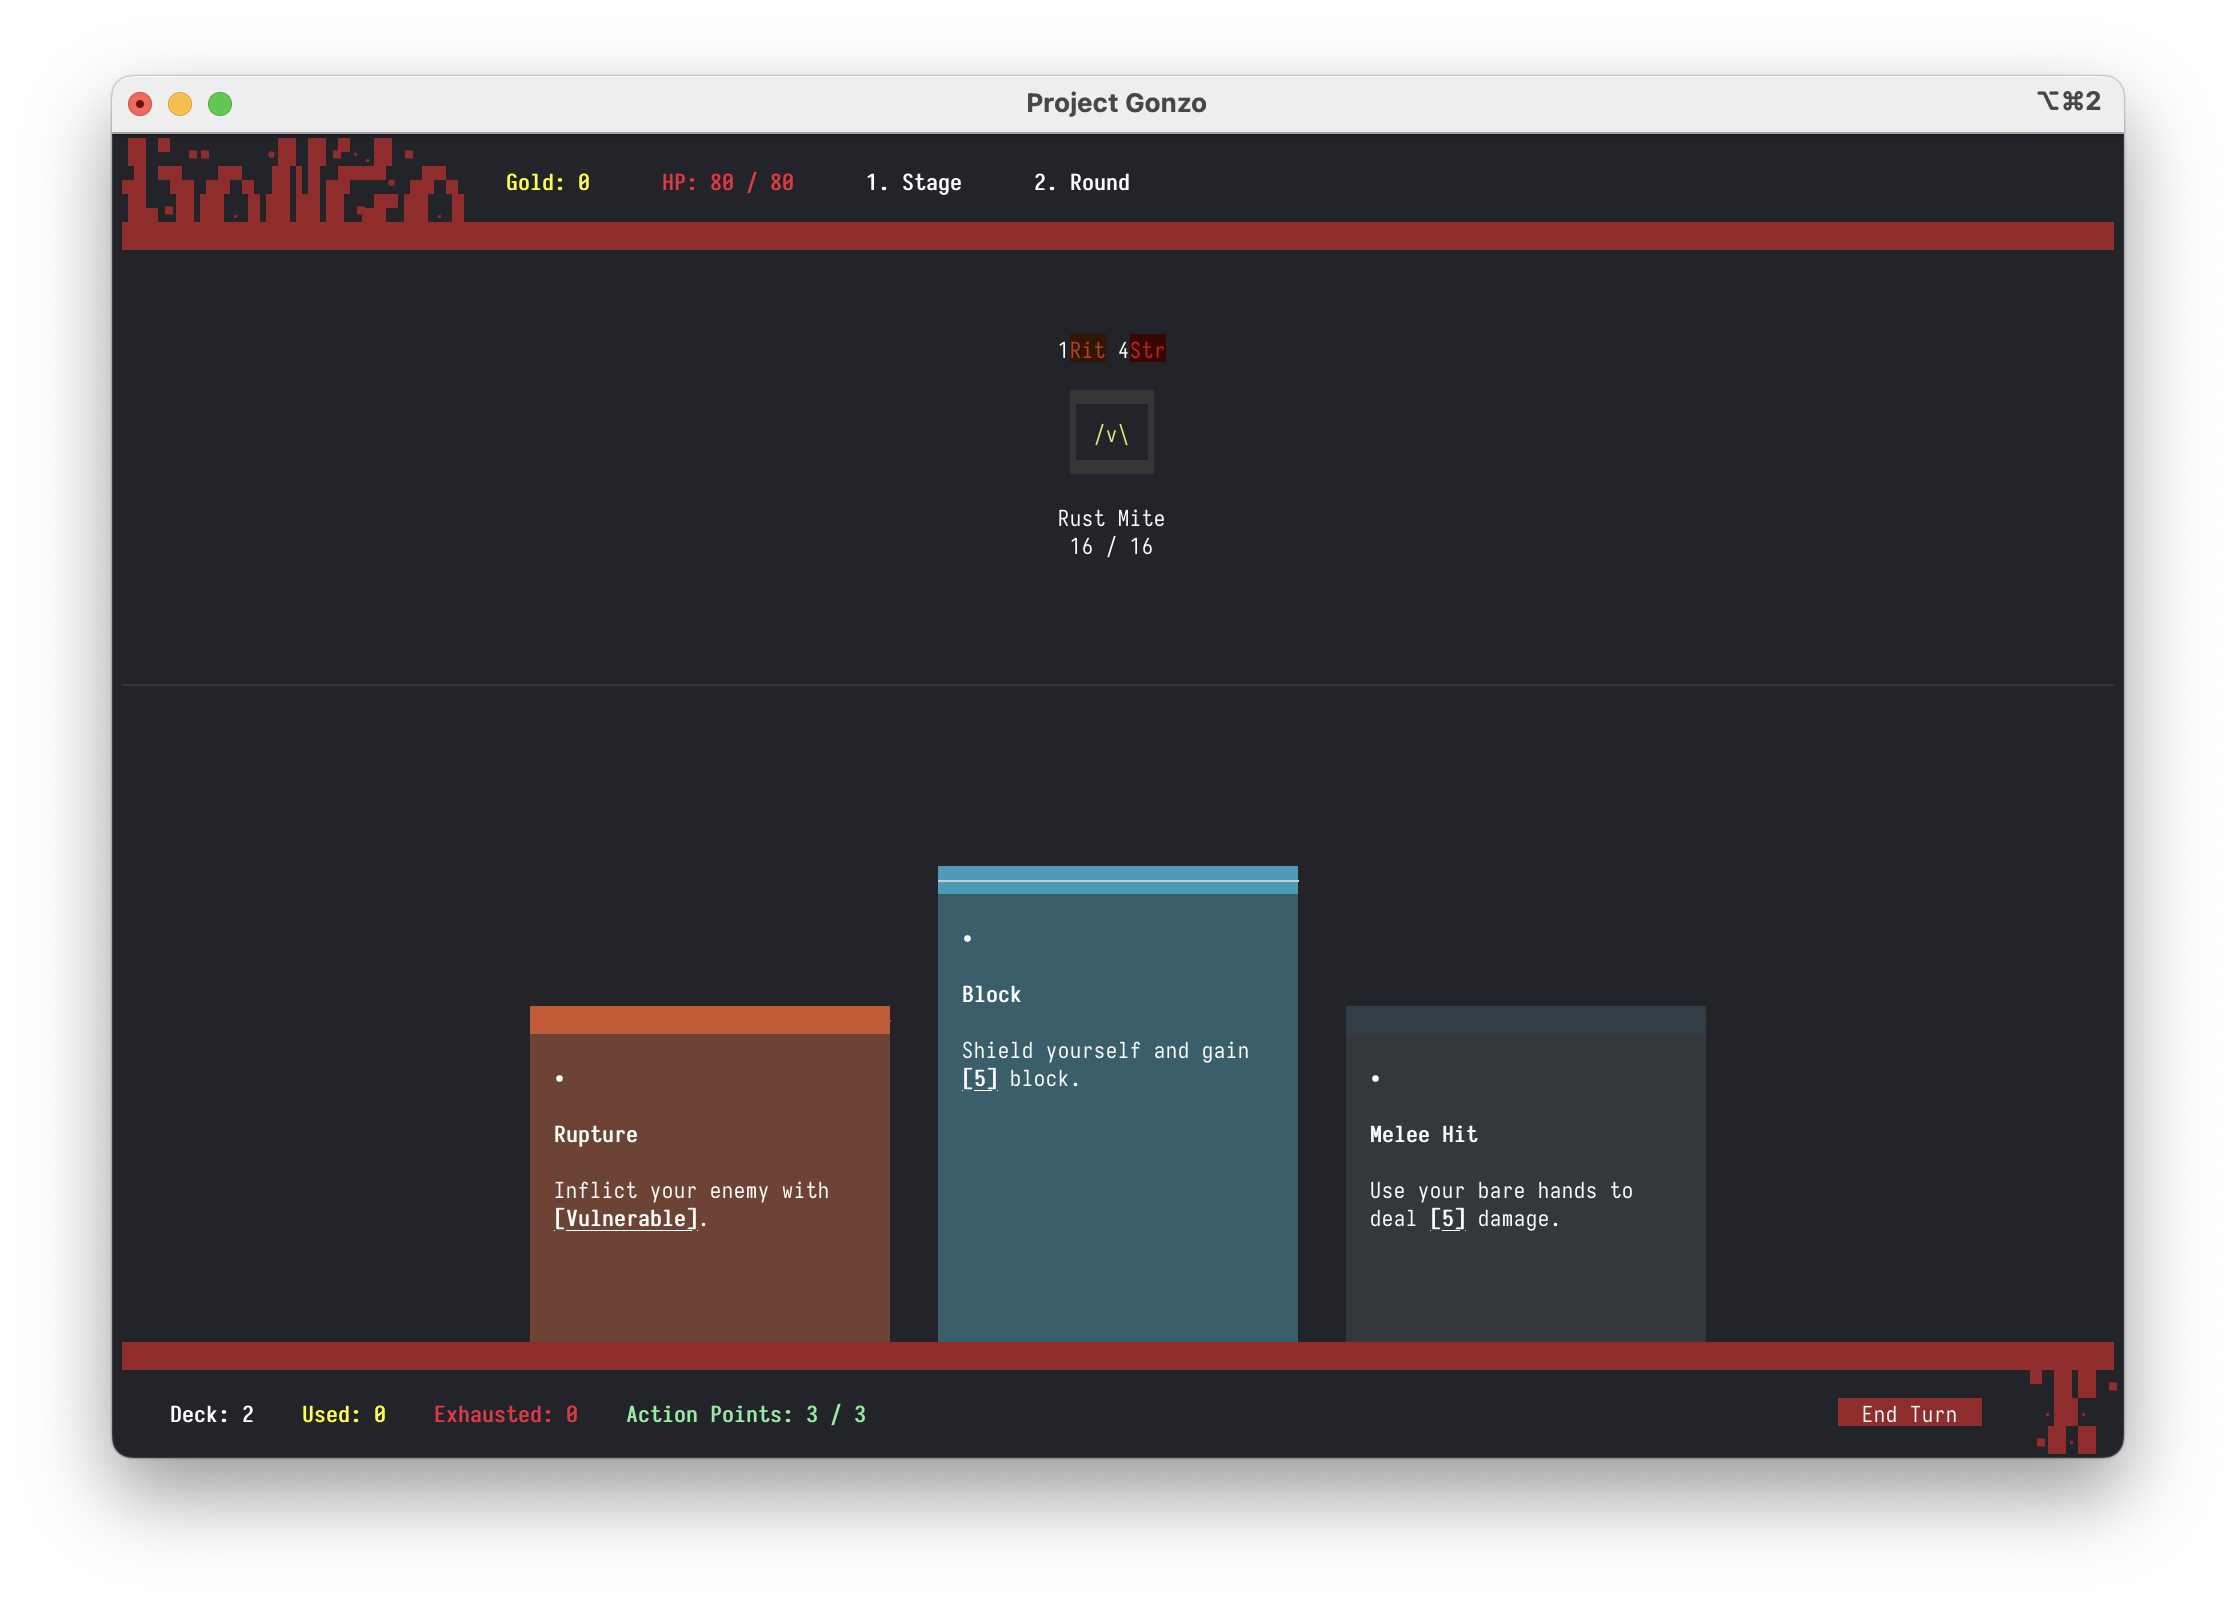
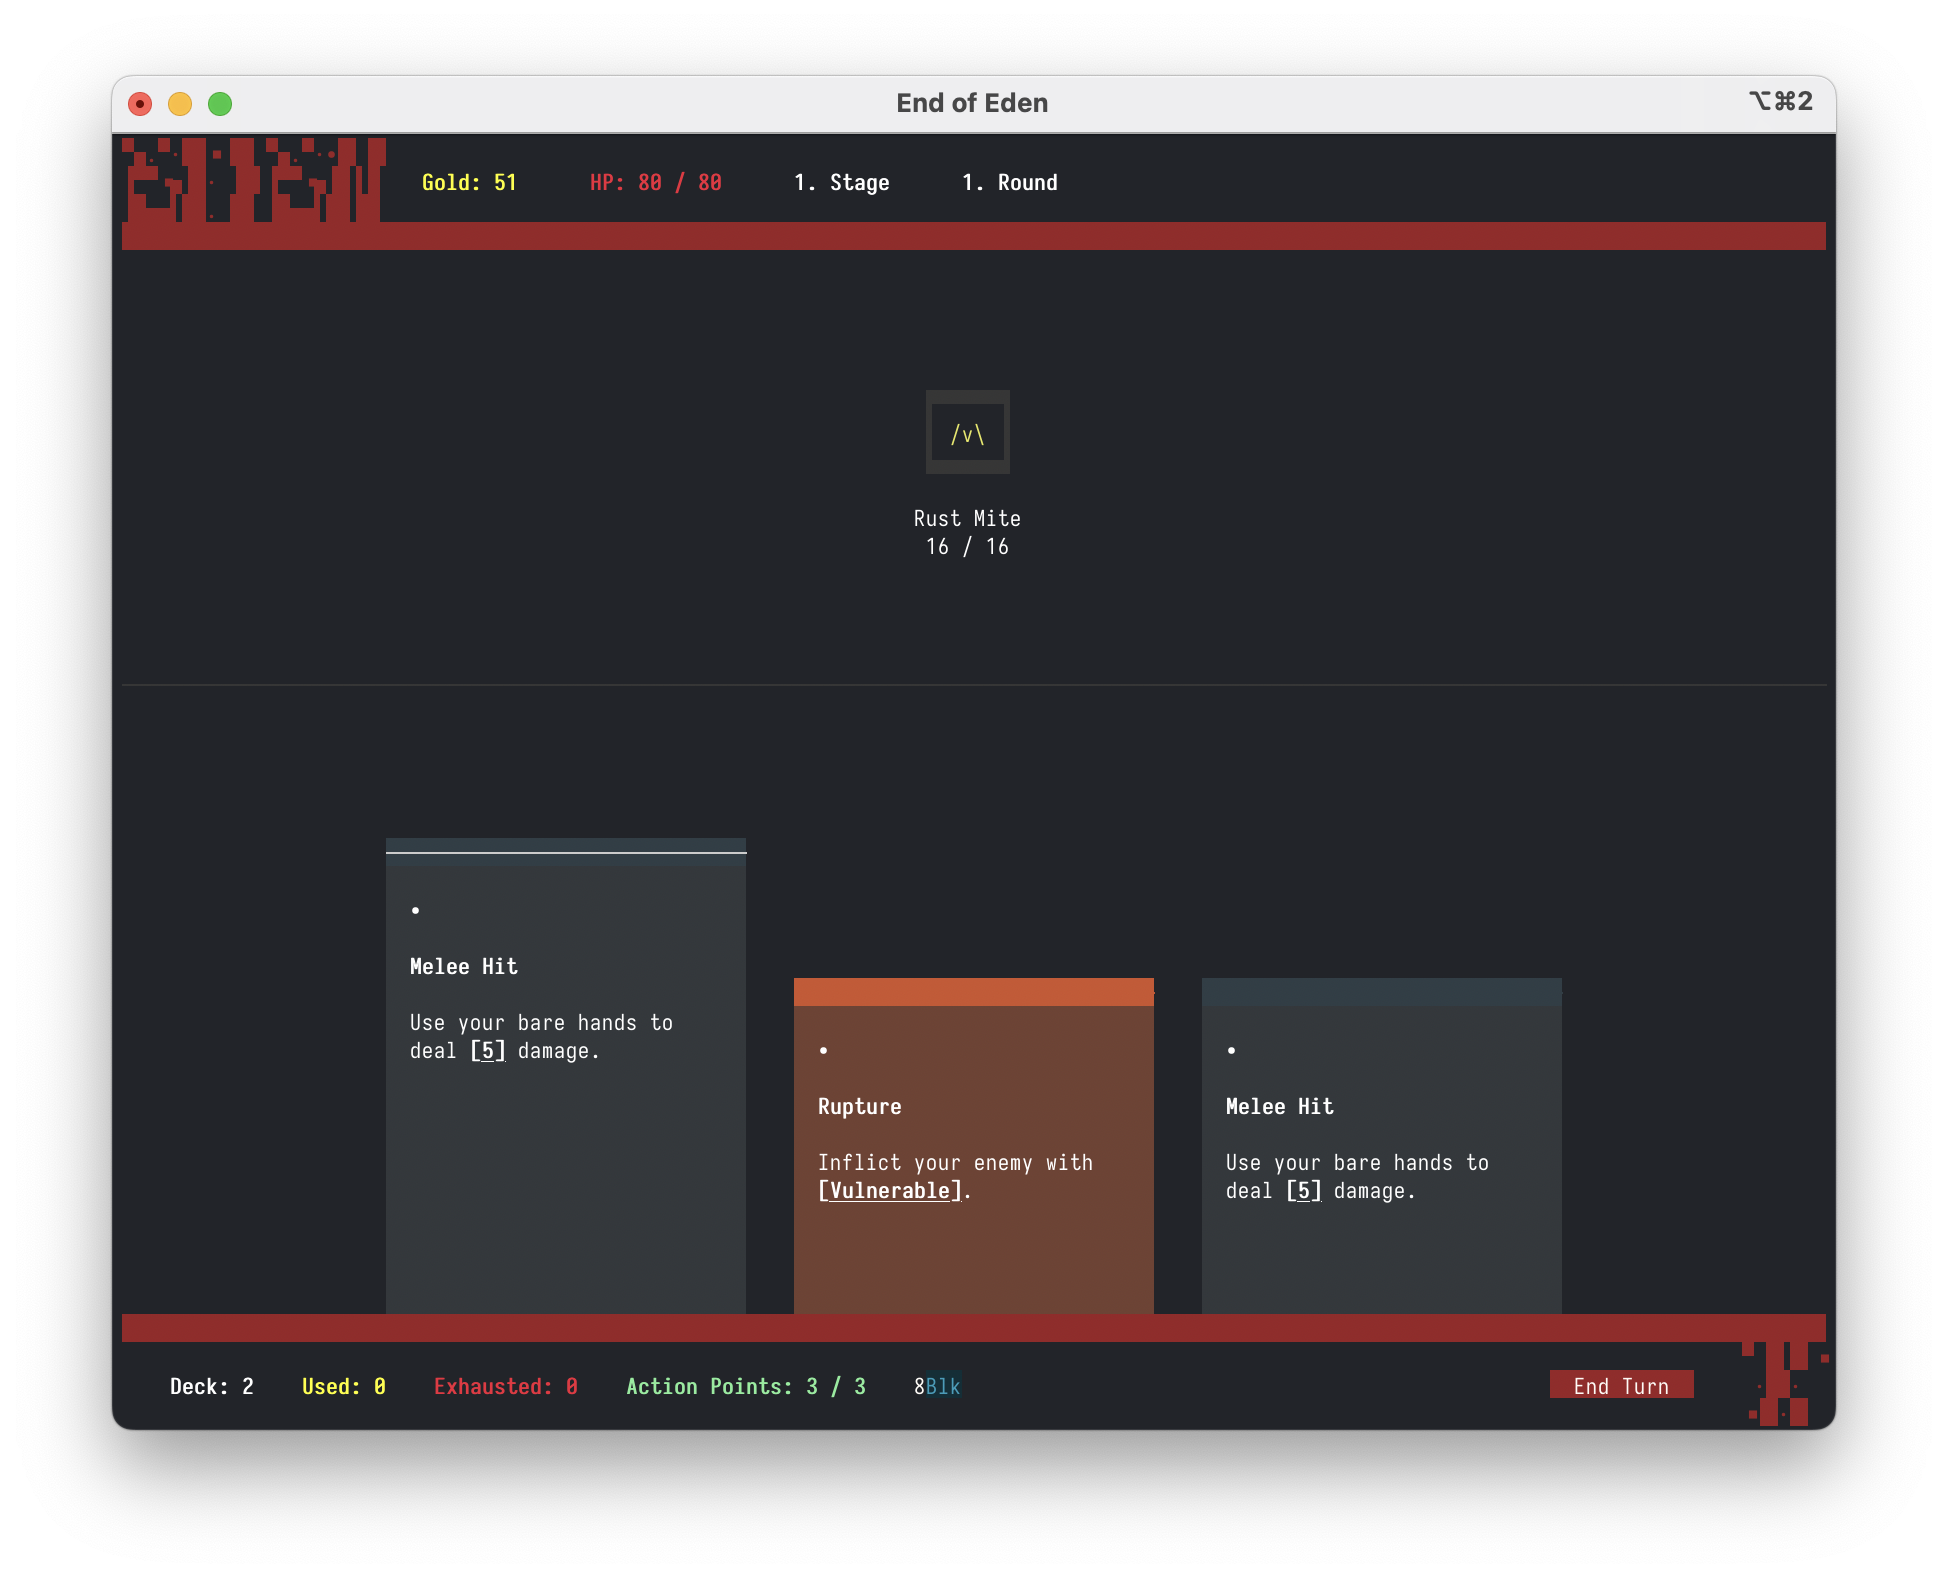
Updated screenshots.

Changed region(s): [[0.0308, 0.0311, 0.9548, 0.9316], [0.462, 0.3105, 0.5236, 0.3416], [0.462, 0.8695, 0.4928, 0.9005]]

diff --git a/ui/components/header.go b/ui/components/header.go
@@ -6,9 +6,9 @@ import (
 )
 
 var (
-	headerLogo = lipgloss.NewStyle().Foreground(style.BaseRedDarker).Render(`▐█ ▀ ▪▪     •█▌▐█▪▀·.█▌▪     
-▄█ ▀█▄ ▄█▀▄ ▐█▐▐▌▄█▀▀▀• ▄█▀▄ 
-▐█▄▪▐█▐█▌.▐▌██▐█▌█▌▪▄█▀▐█▌.▐▌`)
+	headerLogo = lipgloss.NewStyle().Foreground(style.BaseRedDarker).Render(`▀▄.▀·██▪ ██ ▀▄.▀·•█▌▐█
+▐▀▀▪▄▐█· ▐█▌▐▀▀▪▄▐█▐▐▌
+▐█▄▄▌██. ██ ▐█▄▄▌██▐█▌`)
 	headerOuterStyle = lipgloss.NewStyle().Foreground(style.BaseWhite).Border(lipgloss.BlockBorder(), false, false, true, false).BorderForeground(style.BaseRedDarker)
 )
 

diff --git a/ui/menus/gameview/gameview.go b/ui/menus/gameview/gameview.go
@@ -168,7 +168,7 @@ func (m Model) Update(msg tea.Msg) (tea.Model, tea.Cmd) {
 
 		// Always pass size events
 		m.event, _ = m.event.Update(msg)
-		m.merchant, _ = m.event.Update(msg)
+		m.merchant, _ = m.merchant.Update(msg)
 
 		for i := range m.animations {
 			m.animations[i], _ = m.animations[i].Update(tea.WindowSizeMsg{Width: m.Size.Width, Height: m.fightEnemyViewHeight() + m.fightCardViewHeight() + 1})

diff --git a/README.md b/README.md
@@ -1,16 +1,4 @@
-```
-▄▄▄ . ▐ ▄ ·▄▄▄▄            ·▄▄▄    ▄▄▄ .·▄▄▄▄  ▄▄▄ . ▐ ▄ 
-▀▄.▀·•█▌▐███▪ ██     ▪     ▐▄▄·    ▀▄.▀·██▪ ██ ▀▄.▀·•█▌▐█
-▐▀▀▪▄▐█▐▐▌▐█· ▐█▌     ▄█▀▄ ██▪     ▐▀▀▪▄▐█· ▐█▌▐▀▀▪▄▐█▐▐▌
-▐█▄▄▌██▐█▌██. ██     ▐█▌.▐▌██▌.    ▐█▄▄▌██. ██ ▐█▄▄▌██▐█▌
- ▀▀▀ ▀▀ █▪▀▀▀▀▀•      ▀█▄▀▪▀▀▀      ▀▀▀ ▀▀▀▀▀•  ▀▀▀ ▀▀ █▪
-
-end_of_eden
-```
-
----
-
-![Screenshot](./github/screenshot.png)
+![Screenshot](./github/header.png)
 
 > Welcome to a world 500 years in the future, ravaged by climate change and nuclear wars. The remaining humans have become few and far between, replaced by mutated and plant-based creatures. In this gonzo-fantasy setting, you find yourself awakening from cryo sleep in an underground facility, long forgotten and alone. With all other cryosleep capsules broken, it's up to you to navigate this strange and dangerous world and uncover the secrets that led to your isolation...
 
@@ -18,6 +6,13 @@ end_of_eden
 - Is a "Slay the Spire"-like, roguelite deck-builder game running fully in console
 - Collect Artifacts that give you new cards or various passive effects
 - Clash with strange beings and try to survive as long as possible
+
+
+# Screenshots
+
+![Screenshot](./github/screenshot.png)
+![Screenshot](./github/screenshot_merchant.png)
+
 
 # How to play
 
